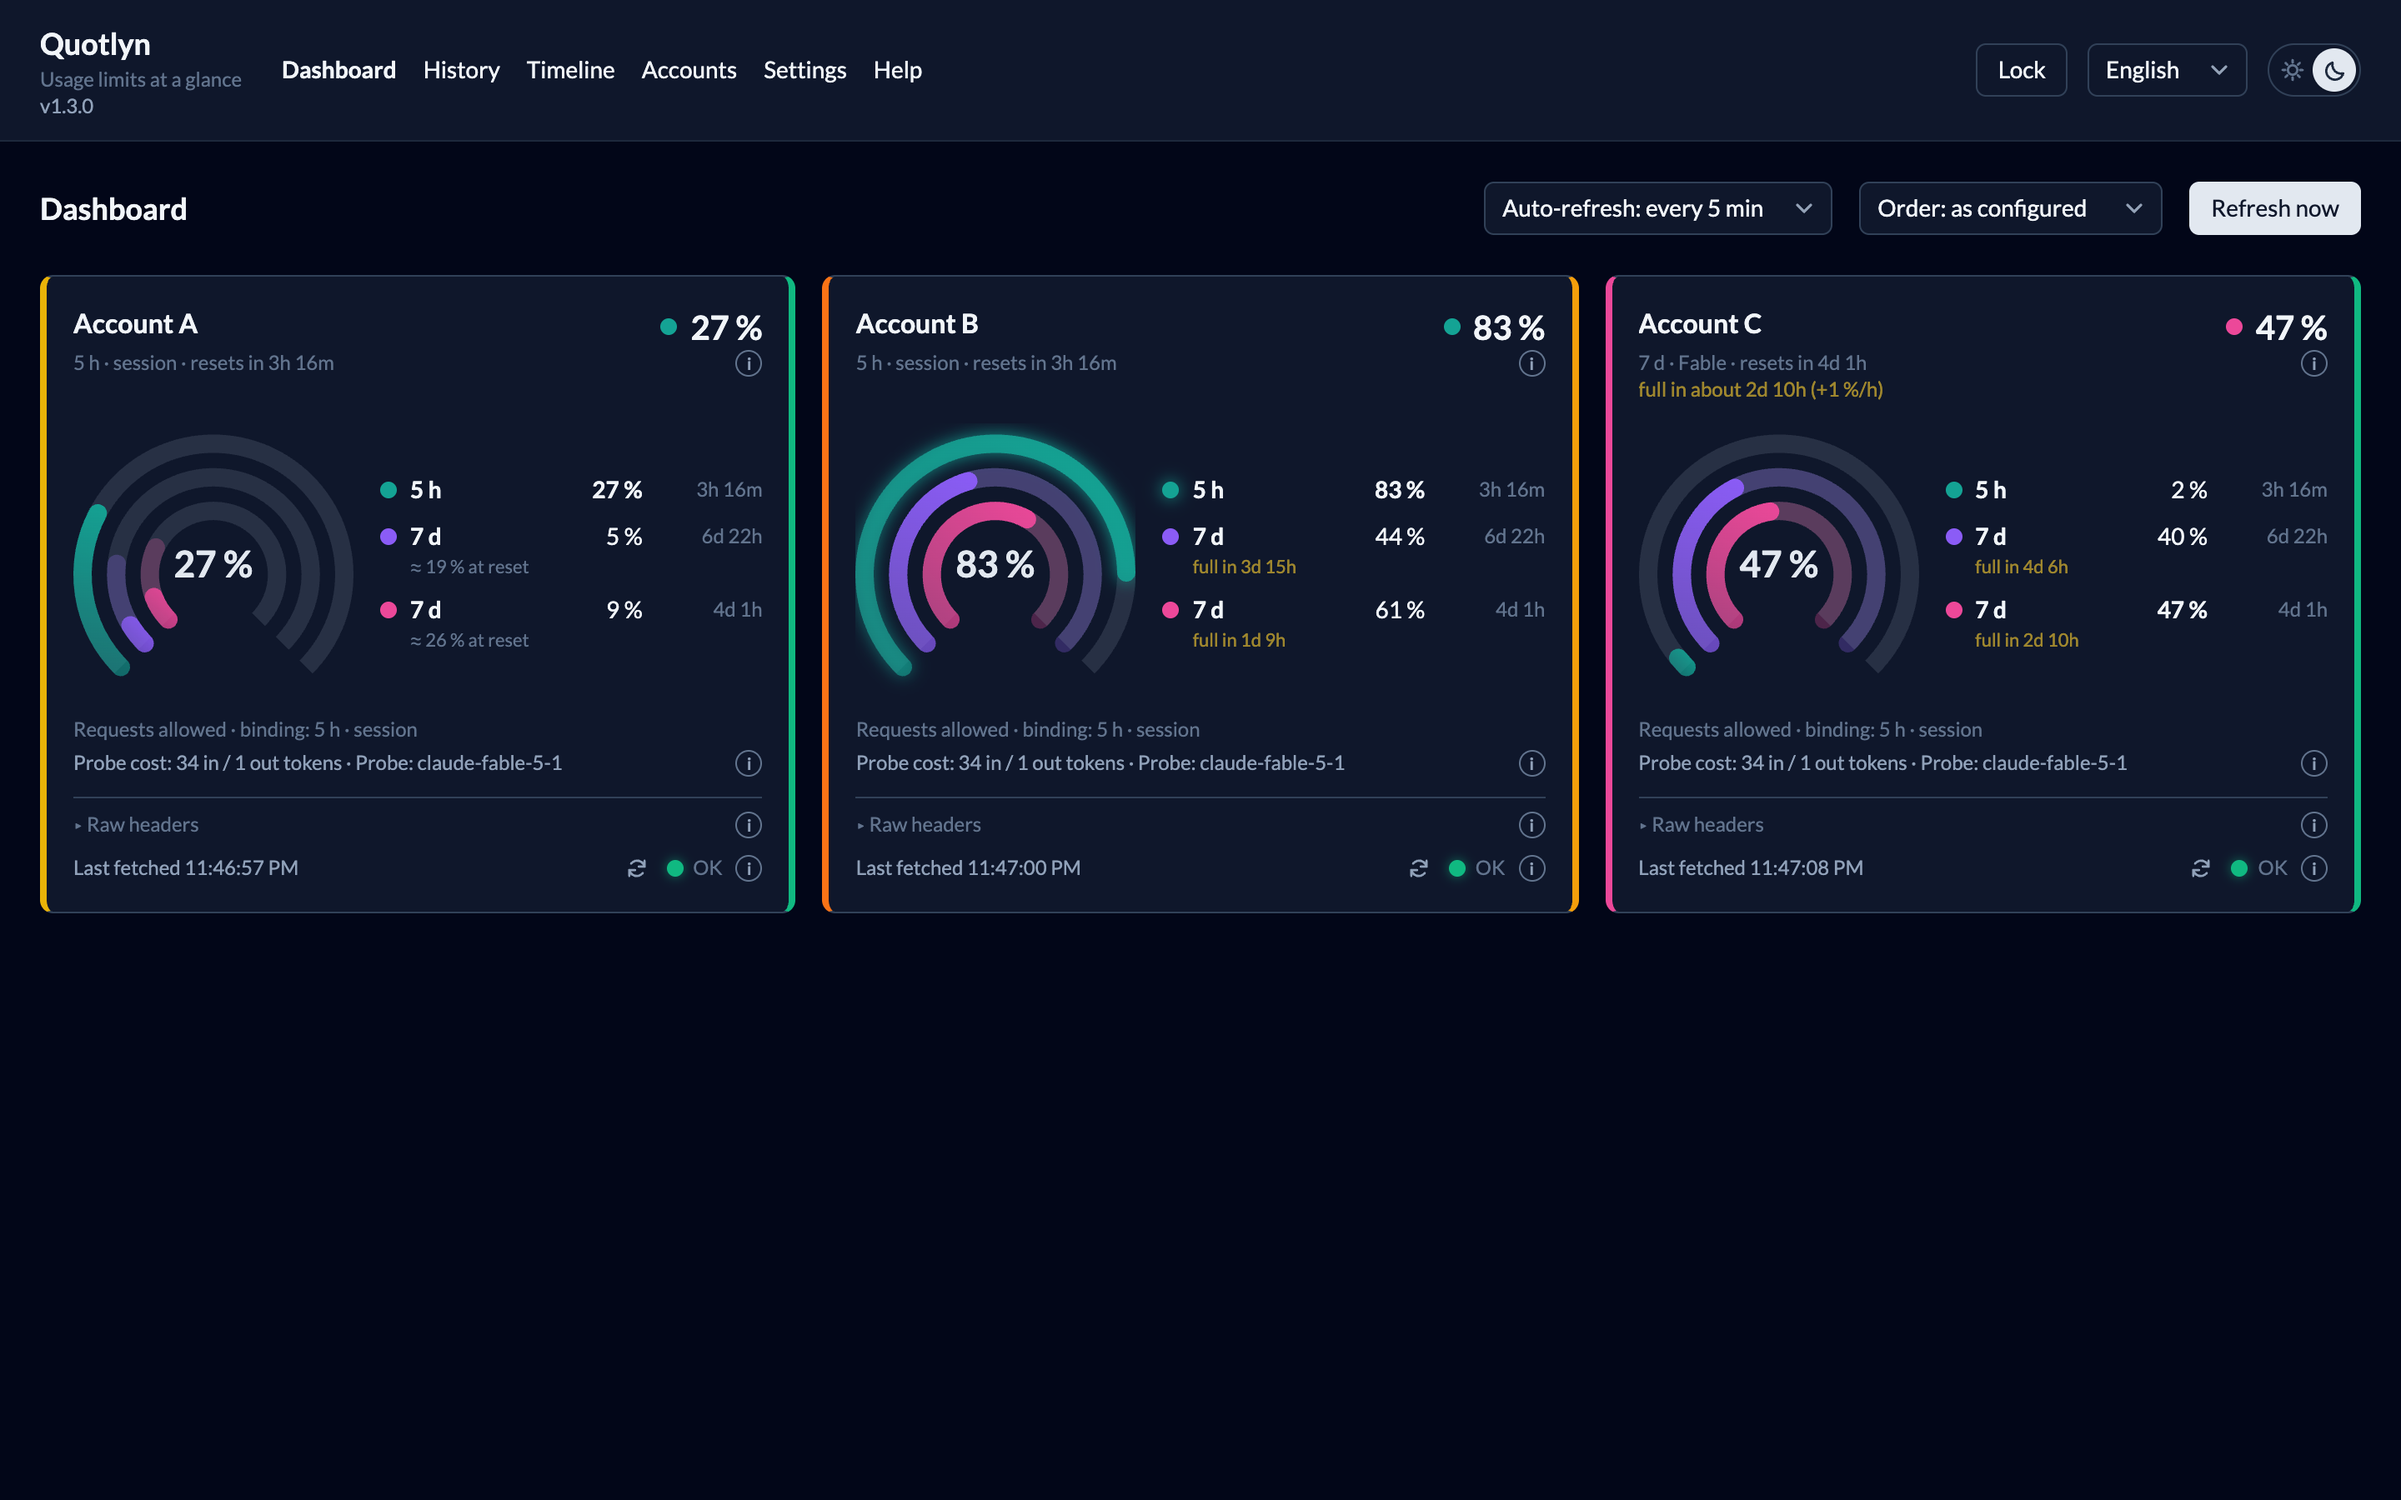
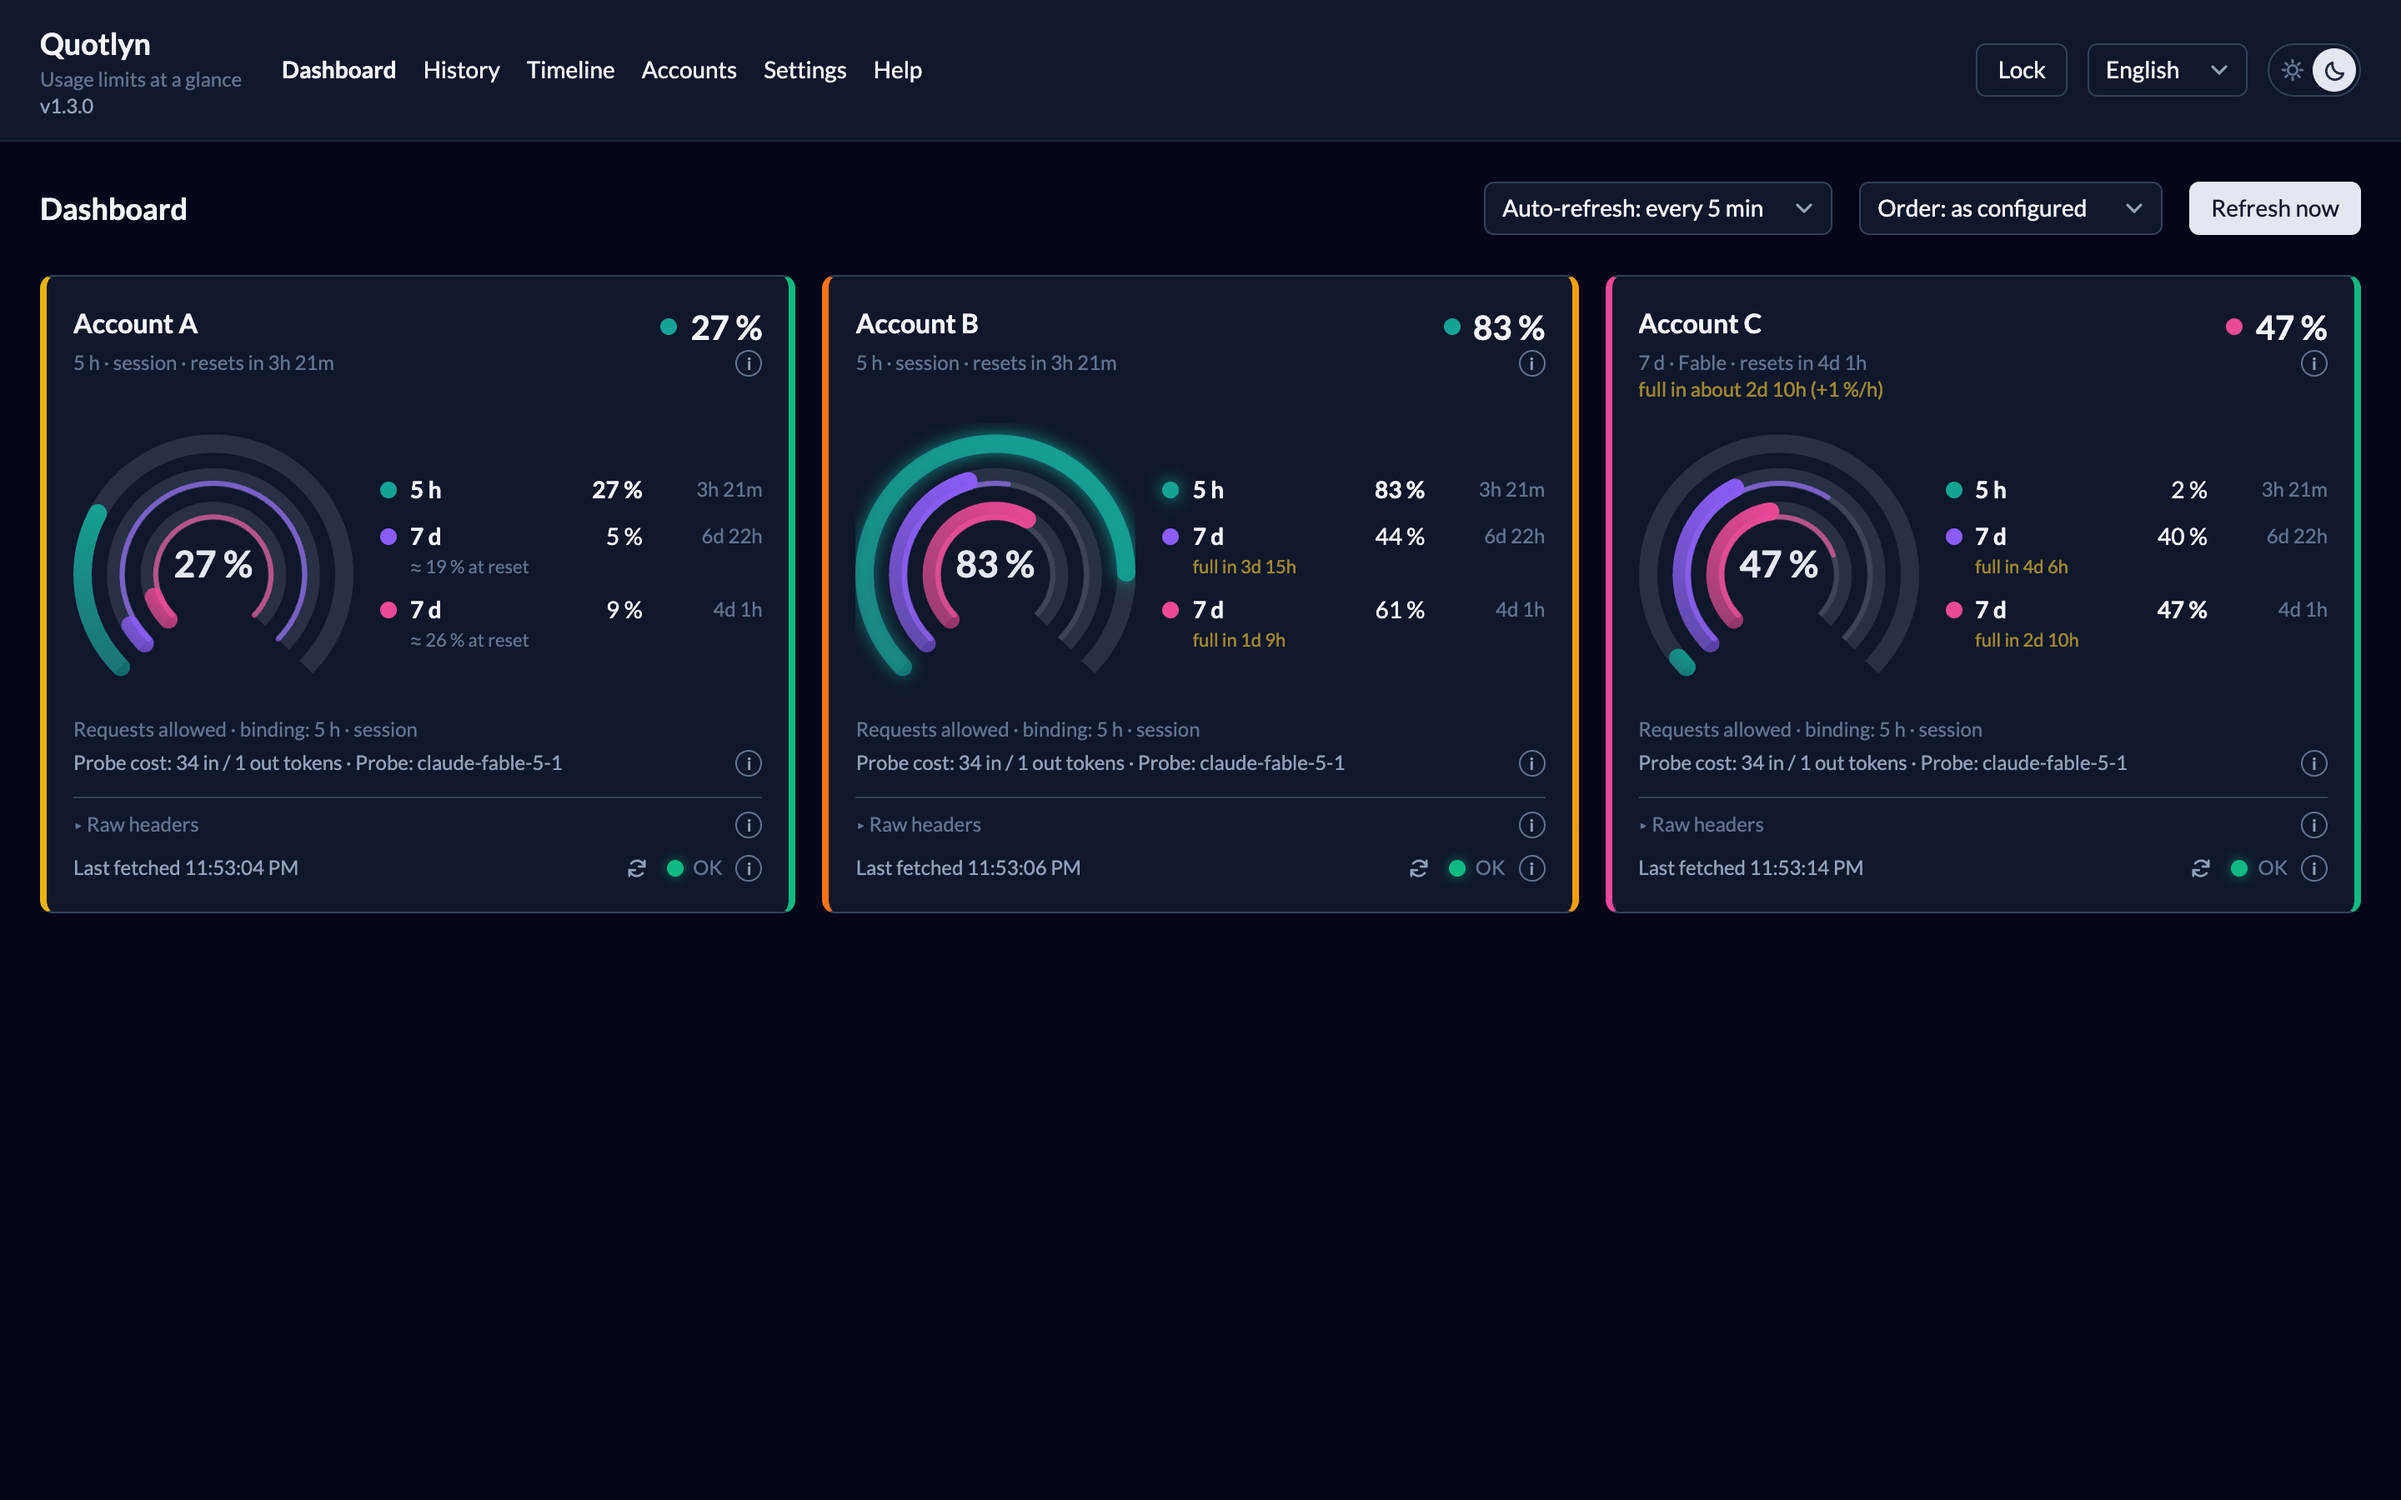
docs: cycle clock in the rings, screenshots retaken

Changed region(s): [[0.7188, 0.3111, 0.8125, 0.4356], [0.4062, 0.3111, 0.4688, 0.4356], [0.0312, 0.3111, 0.125, 0.4044]]

diff --git a/README.md b/README.md
@@ -62,7 +62,9 @@ and cards can be ordered as configured or by remaining room.
 slope of each window and tells you when it will be full, or how full it
 will be at the reset. The session window uses a configurable look-back, the
 week windows the whole cycle from 0 %. The cards show it as a line under
-the lead metric, as a faint ghost arc on each ring and in the ring legend.
+the lead metric, in the ring legend, and as a thin cycle clock inside each
+ring: the clock runs from the last reset to the next and ends where the
+window is expected to run out.
 History continues each line as a dashed projection, the timeline marks the
 expected exhaustion with a diamond. The forecast can be switched off.
 
